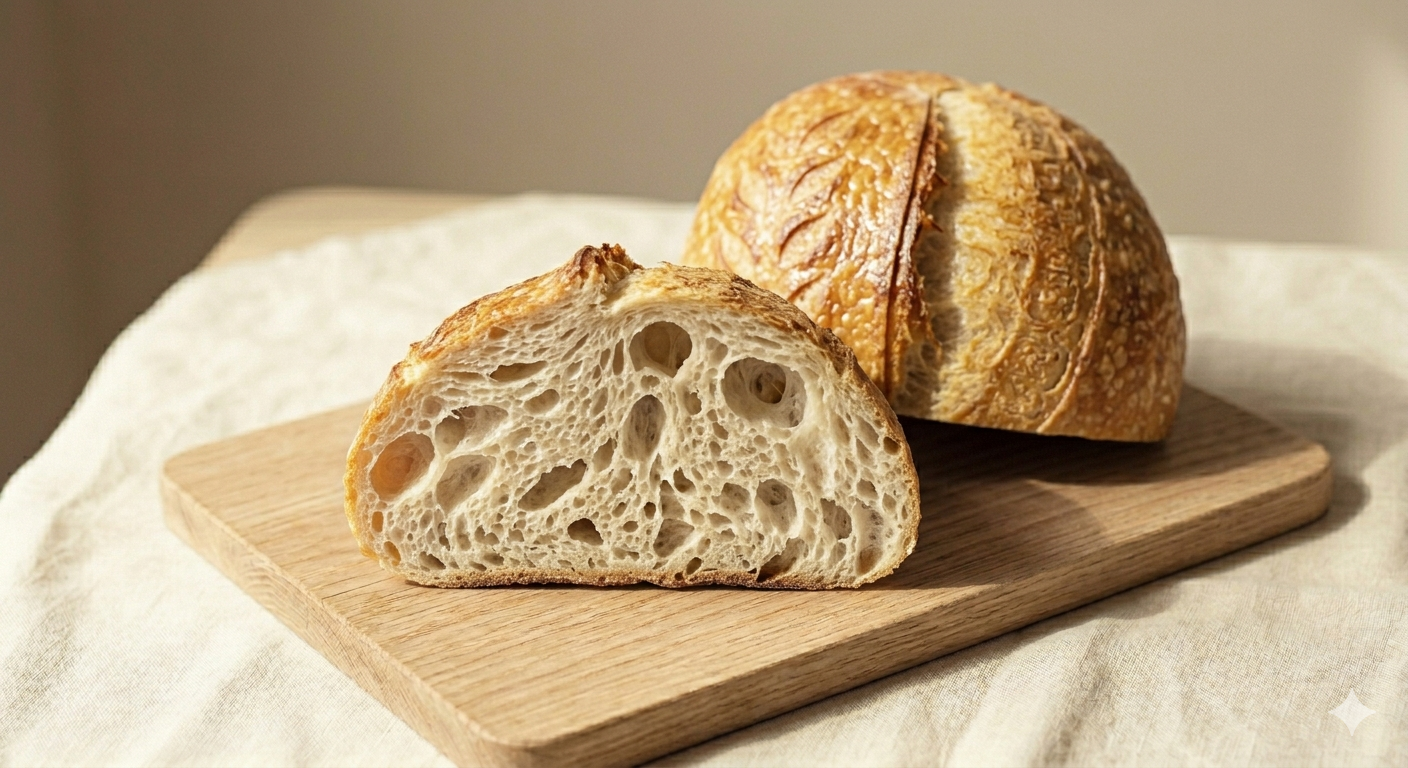
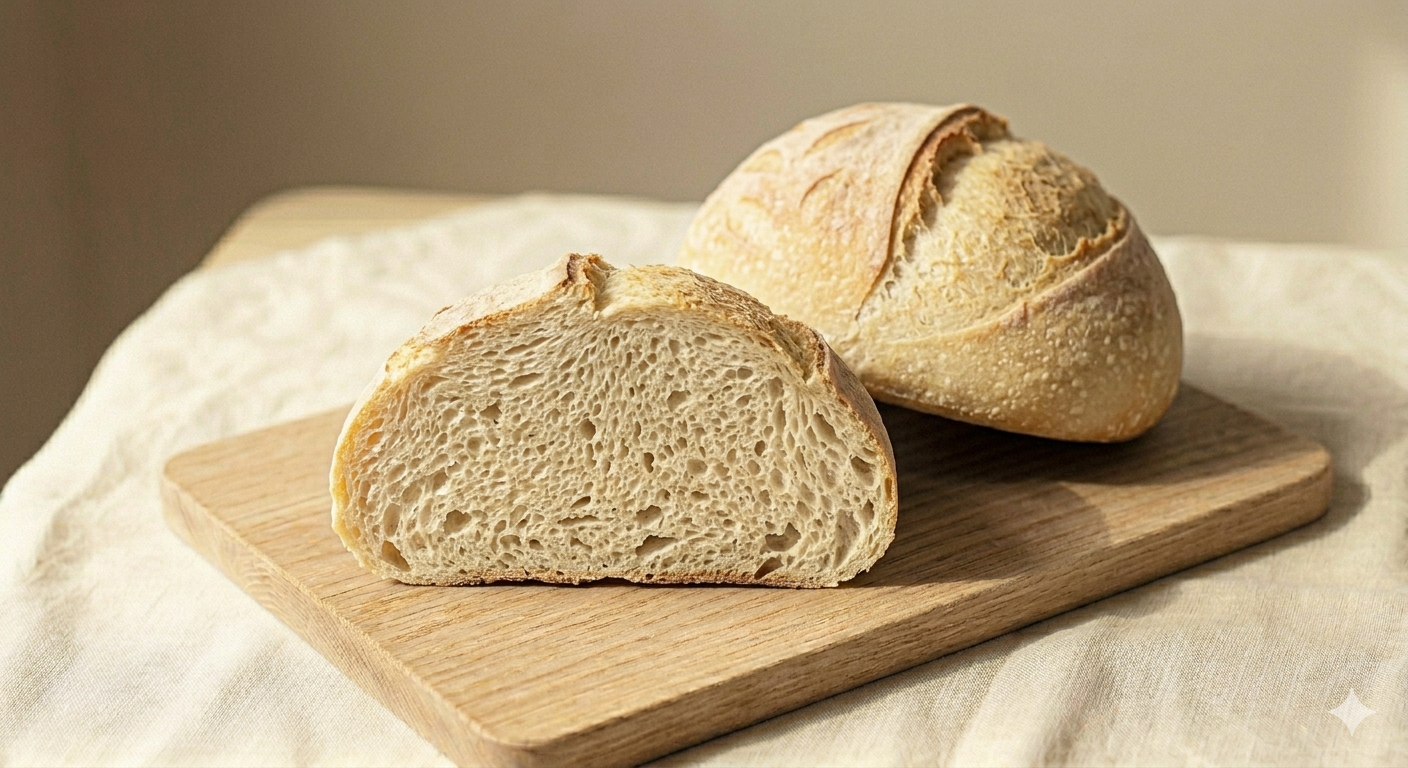
feat(spelt): real preset photos for spelt-white/country-rye/spelt50
Replace the temporary placeholders with the generated bakery photos.
Completes T6 — every preset now has a valid, on-style image.

diff --git a/specs/features/08-spelt-flour/image-prompts.md b/specs/features/08-spelt-flour/image-prompts.md
@@ -1,14 +1,8 @@
 # Image prompts — 3 new preset photos (T6)
 
-> **Status:** the 3 files in `public/presets/` are **temporary placeholders** copied
-> from the nearest-style existing photos. Replace with real generated images
-> before merge (design AC: "תמונה תקפה לכל פריסט").
->
-> | file | placeholder source | style anchor to attach |
-> |---|---|---|
-> | `spelt-white.png` | `white.png` | `white.png` |
-> | `country-rye.png` | `country.png` | `country.png` |
-> | `spelt50.png` | `rye50.png` | `wheat70.png` |
+> **Status:** ✅ real generated images are now in `public/presets/`
+> (`spelt-white.png`, `country-rye.png`, `spelt50.png`). The prompts below are
+> kept as the record of how they were produced, for future re-generation.
 
 These follow the **exact prompt template** used for the existing preset photos:
 two opening lines (generic composition + loaf-specific), a single attached